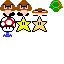
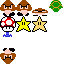
Star collision without animation

Changed region(s): [[0.0, 0.75, 0.25, 1.0]]

diff --git a/02-Bubble/Scene.cpp b/02-Bubble/Scene.cpp
@@ -54,14 +54,24 @@ void Scene::init(int lvl)
 	defPaused = false;
 
 	// Enemies initialization
-	enemies.clear();
-	enemies.resize(4);
-	for (int e = 0; e < 4; ++e) {
-		enemies[e] = new Item();
-		if (e != 3) enemies[e]->init(glm::vec2(SCREEN_X, SCREEN_Y), texProgram, 0);
-		else enemies[e]->init(glm::vec2(SCREEN_X, SCREEN_Y), texProgram, 1);
-		enemies[e]->setPosition(glm::vec2(10 * map->getTileSize() + e*40, 10 * map->getTileSize()));
-		enemies[e]->setTileMap(map);
+
+	if (lvl == 1){
+		// Ubicacions dels enemics en el nivell 1
+		enemies.clear();
+		enemies.resize(3);
+		for (int e = 0; e < 3; ++e) {
+			enemies[e] = new Item();
+			if (e < 2) enemies[e]->init(glm::vec2(SCREEN_X, SCREEN_Y), texProgram, 1); // 1 = Koopa, 0 = Goomba
+			else enemies[e]->init(glm::vec2(SCREEN_X, SCREEN_Y), texProgram, 0);
+			enemies[e]->setPosition(glm::vec2(10 * map->getTileSize() + (e-1)*40, 10 * map->getTileSize()));
+			enemies[e]->setTileMap(map);
+		}
+	}
+	else if (lvl == 2)
+	{
+		// Ubicacions dels enemics en el nivell 2
+		enemies.clear();
+		enemies.resize(2);
 	}
 
 	// Items initialization
@@ -317,6 +327,32 @@ void Scene::update(int deltaTime){
 				Sound::instance().stop(8);
 			} 
 
+		} else if (enemies[e]->collisionKill(playerPos, playerSize) && player->getStar()){
+			// Player has a star!
+
+			int enemyType = enemies[e]->getType();
+			int inc = getPtsByStreak(pointStreak);
+			int spriteThatWillRender = getFloatByPoints(inc);
+
+			switch (enemyType){
+				case 0: // GOOMBA
+				floatsToRender.push_back(glm::vec4(spriteThatWillRender, 400, playerPos.x, playerPos.y));
+				points += getPtsByStreak(pointStreak);
+
+				Sound::instance().play(9);
+				break;
+				case 1: // KOOPA TROOPA
+				floatsToRender.push_back(glm::vec4(spriteThatWillRender, 400, playerPos.x, playerPos.y));
+				points += getPtsByStreak(pointStreak);
+
+				Sound::instance().play(9);
+				break;
+
+			}
+
+			++pointStreak;
+
+			enemies[e]->die();
 		}
 	}
 
@@ -363,6 +399,9 @@ void Scene::update(int deltaTime){
 	if (player->won()){
 		won = true;
 	}
+
+	// DONT OVERFLOW OR ELSE SIGFAULT
+	if (points > 999999) points = 999999;
 
 	// Secret :)
 	if (playerPos.x > 800 && Sound::instance().getStatus(7) == 2 && !playerFlagpoleStarted){

diff --git a/02-Bubble/Item.cpp b/02-Bubble/Item.cpp
@@ -24,7 +24,7 @@
 
 enum ItemAnims
 {
-	WALK, DEATH, WALK_RIGHT, WALK_LEFT, IN_SHELL
+	WALK, DEATH, WALK_RIGHT, WALK_LEFT, IN_SHELL, STAR_DEATH
 };
 
 enum ItemTypes
@@ -37,6 +37,7 @@ void Item::init(const glm::ivec2& tileMapPos, ShaderProgram& shaderProgram, int 
 	bJumping = false;
 	bFalling = false;
 	itemKO = false;
+	starDeathAnim = false;
 	koopaShell = false;
 	typeItem = type;
 	vel = glm::vec2((type == STAR ? 1.0f : 0.5f), 0.f);
@@ -46,7 +47,7 @@ void Item::init(const glm::ivec2& tileMapPos, ShaderProgram& shaderProgram, int 
 		case GOOMBA:
 			spritesheet.loadFromFile("images/enemies-small.png", TEXTURE_PIXEL_FORMAT_RGBA);
 			sprite = Sprite::createSprite(glm::ivec2(16, 16), glm::vec2(0.25, 0.25), &spritesheet, &shaderProgram);
-			sprite->setNumberAnimations(2);
+			sprite->setNumberAnimations(6);
 
 			sprite->setAnimationSpeed(WALK, 4);
 			sprite->addKeyframe(WALK, glm::vec2(0.f, 0.f));
@@ -54,6 +55,9 @@ void Item::init(const glm::ivec2& tileMapPos, ShaderProgram& shaderProgram, int 
 
 			sprite->setAnimationSpeed(DEATH, 1);
 			sprite->addKeyframe(DEATH, glm::vec2(0.5f, 0.f));
+
+			sprite->setAnimationSpeed(STAR_DEATH, 1);
+			sprite->addKeyframe(STAR_DEATH, glm::vec2(0.f, 0.75f));
 
 			sprite->changeAnimation(0, false);
 			tileMapDispl = tileMapPos;
@@ -75,6 +79,9 @@ void Item::init(const glm::ivec2& tileMapPos, ShaderProgram& shaderProgram, int 
 
 			sprite->setAnimationSpeed(IN_SHELL, 1);
 			sprite->addKeyframe(IN_SHELL, glm::vec2(0.5f, 0.f));
+
+			sprite->setAnimationSpeed(DEATH, 1);
+			sprite->addKeyframe(DEATH, glm::vec2(0.5f, 0.5f));
 
 			sprite->changeAnimation(WALK_RIGHT, false);
 			tileMapDispl = tileMapPos;

diff --git a/02-Bubble/Player.cpp b/02-Bubble/Player.cpp
@@ -408,7 +408,7 @@ void Player::update(int deltaTime)
 
 	// Increment Velocities
 	if (vel.x >= 0 && Game::instance().getSpecialKey(GLUT_KEY_RIGHT)){
-		if (Game::instance().getSpecialKey(SHIFT_KEY)){
+		if (Game::instance().getSpecialKey(SHIFT_KEY) || starMario){
 			// Running
 			vel.x += RUN_ACELERATION;
 
@@ -425,7 +425,7 @@ void Player::update(int deltaTime)
 	}
 	else if (vel.x <= 0 && Game::instance().getSpecialKey(GLUT_KEY_LEFT)){
 
-		if (!Game::instance().getSpecialKey(SHIFT_KEY)){
+		if (!Game::instance().getSpecialKey(SHIFT_KEY) && !starMario){
 			// Walking acceleration
 			vel.x -= WALK_ACELERATION;
 			

diff --git a/02-Bubble/Item.h b/02-Bubble/Item.h
@@ -42,7 +42,7 @@ private:
 	Sprite* sprite;
 
 	bool koopaShell;
-	bool deadAnimStart, itemKO, goingUp;
+	bool deadAnimStart, itemKO, goingUp, starDeathAnim;
 	int deadAnimCounter;
 
 	int typeItem;
